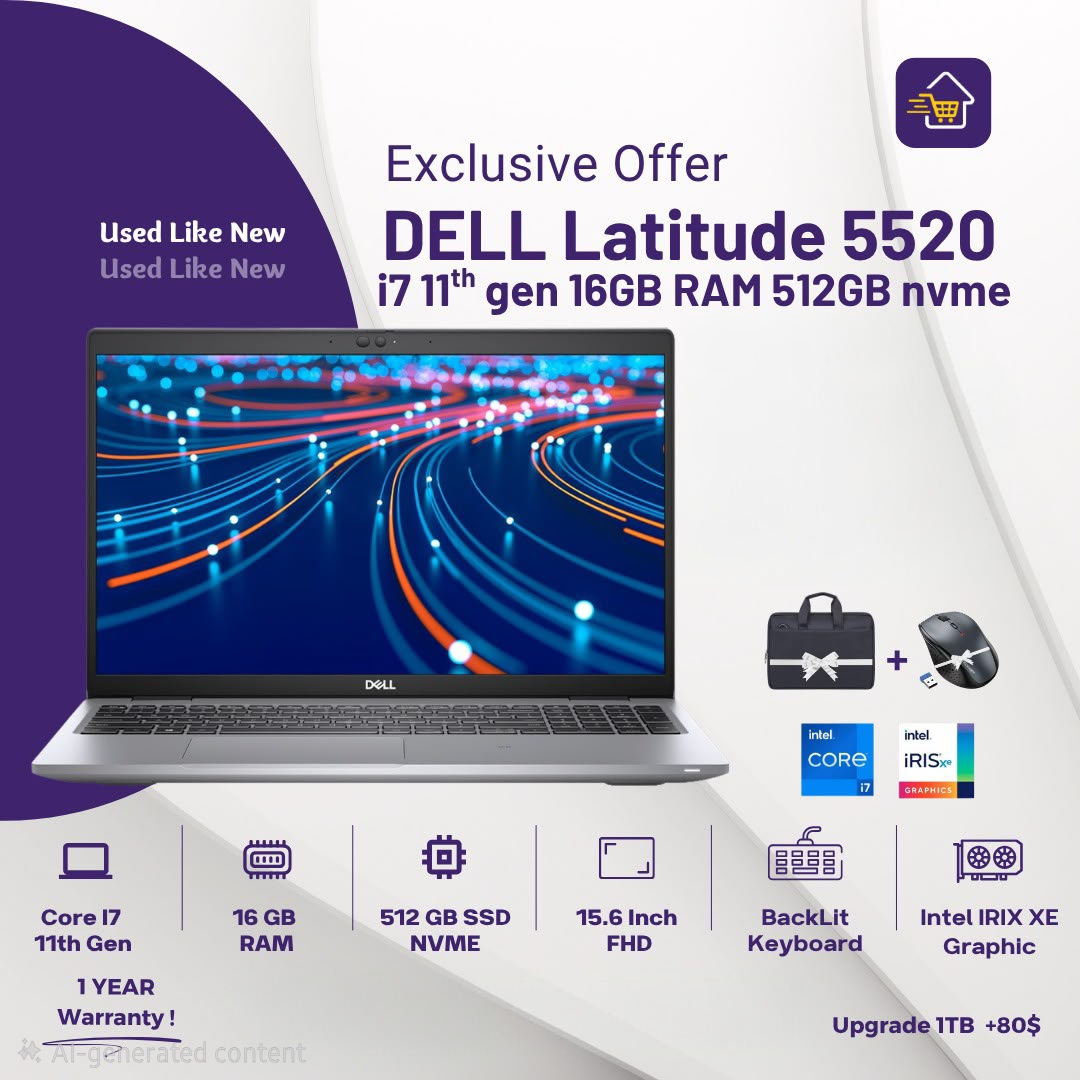
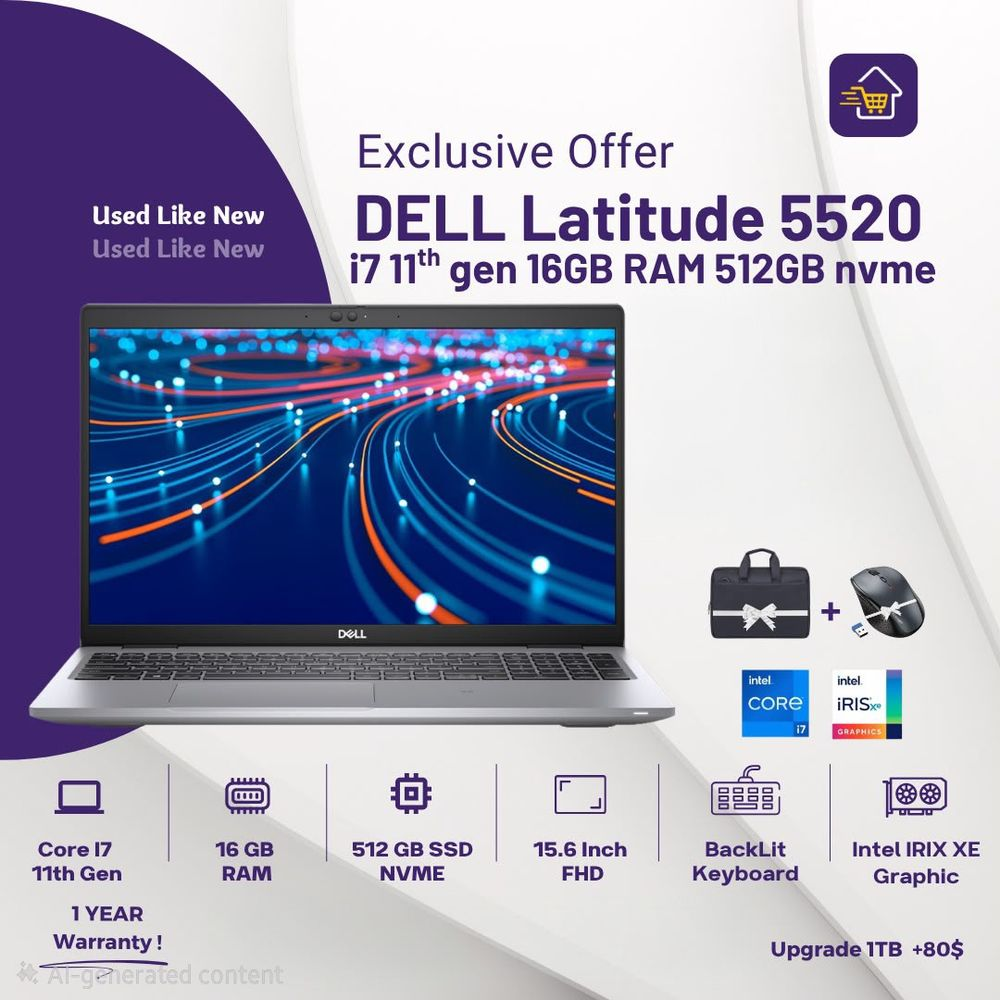
Hide reviewer PII columns, compress heavy images, cache static images
- Questions query selects explicit columns (email no longer readable by anon)
- Recompress large product images in place (same filenames)
- Add Cache-Control for /images

Claude-Session: https://claude.ai/code/session_01QCLpsaSqP53c3begq9HztL

diff --git a/index.html b/index.html
@@ -4791,7 +4791,7 @@ async function loadProductQuestions(productId) {
   if (!listEl) return;
   listEl.innerHTML = "";
   try {
-    const rows = await sbFetch(`/rest/v1/pt_product_questions?product_id=eq.${productId}&order=created_at.desc&select=*`);
+    const rows = await sbFetch(`/rest/v1/pt_product_questions?product_id=eq.${productId}&order=created_at.desc&select=id,display_name,question,answer,created_at`);
     if (!rows || rows.length === 0) return;
     listEl.innerHTML = `<div class="pm-qa-title">Customer Q&A</div>` +
       rows.map(r => `
